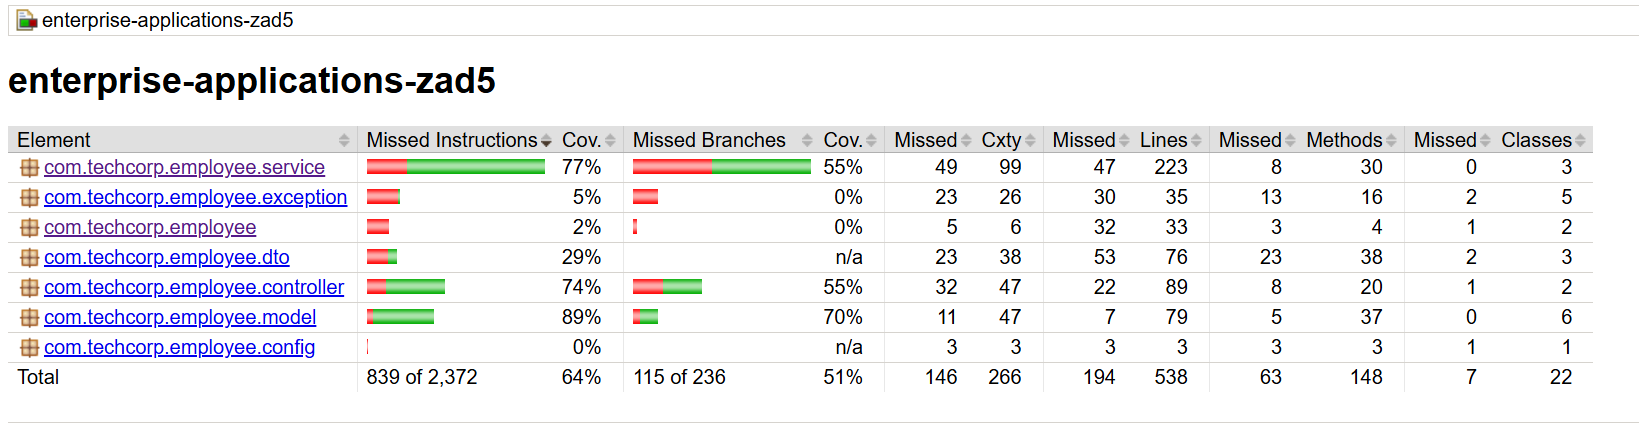
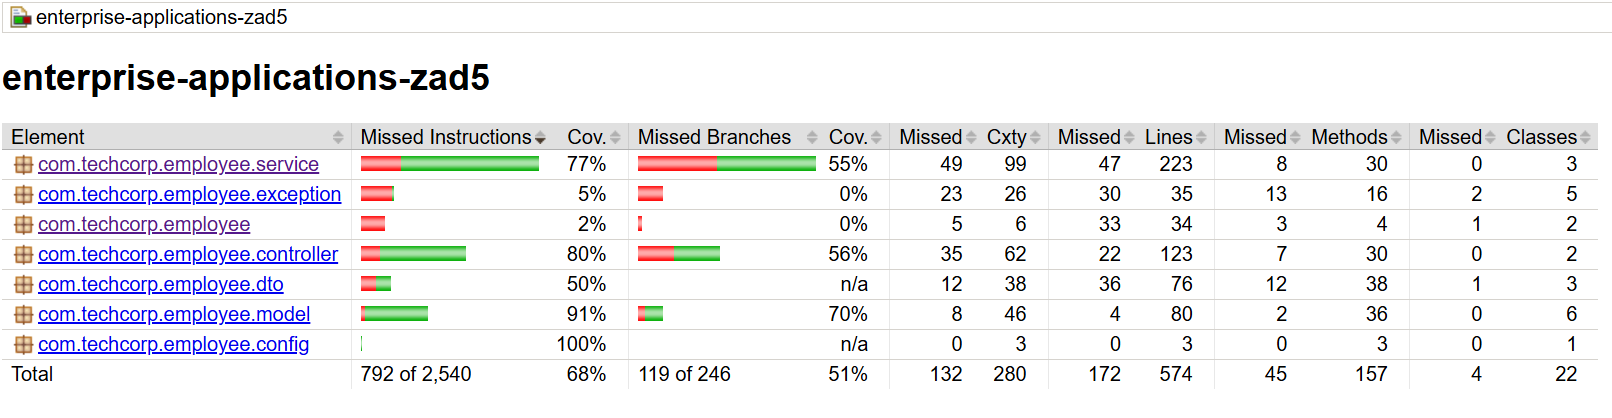
added statistics controller and tests, updated EmployeeControllerTests, added test app properties, updated readme and coverage report

diff --git a/zad-5/src/test/java/com/techcorp/employee/controller/StatisticsControllerTest.java b/zad-5/src/test/java/com/techcorp/employee/controller/StatisticsControllerTest.java
@@ -1,5 +1,100 @@
 package com.techcorp.employee.controller;
 
+import com.techcorp.employee.model.CompanyStatistics;
+import com.techcorp.employee.model.Employee;
+import com.techcorp.employee.model.EmploymentStatus;
+import com.techcorp.employee.model.Position;
+import com.techcorp.employee.service.EmployeeService;
+import org.junit.jupiter.api.Test;
+import org.springframework.beans.factory.annotation.Autowired;
+import org.springframework.boot.test.autoconfigure.web.servlet.WebMvcTest;
+import org.springframework.boot.test.mock.mockito.MockBean;
+import org.springframework.http.MediaType;
+import org.springframework.test.web.servlet.MockMvc;
+
+import java.util.List;
+import java.util.Map;
+
+import static org.mockito.Mockito.when;
+import static org.springframework.test.web.servlet.request.MockMvcRequestBuilders.get;
+import static org.springframework.test.web.servlet.result.MockMvcResultMatchers.jsonPath;
+import static org.springframework.test.web.servlet.result.MockMvcResultMatchers.status;
+
+@WebMvcTest(StatisticsController.class)
 public class StatisticsControllerTest {
-    
+
+    @Autowired
+    private MockMvc mvc;
+
+    @MockBean
+    // MockBean deprecated
+    // MockitoBean cannot be resolved to a type
+    // I AM KILLING MYSELF TONIGHT
+    private EmployeeService employeeService;
+
+    @Test
+    void averageSalary_noCompany() throws Exception {
+        Employee a = new Employee("A One", "a@x.com", "X", Position.PROGRAMISTA, 1000.0);
+        Employee b = new Employee("B Two", "b@x.com", "Y", Position.PROGRAMISTA, 3000.0);
+        when(employeeService.getAllEmployees()).thenReturn(List.of(a, b));
+
+        mvc.perform(get("/api/statistics/salary/average").accept(MediaType.APPLICATION_JSON))
+                .andExpect(status().isOk())
+                .andExpect(jsonPath("$.averageSalary").value(2000.0));
+    }
+
+    @Test
+    void averageSalary_byCompany() throws Exception {
+        Employee a = new Employee("A", "a@t.com", "TechCorp", Position.PROGRAMISTA, 8000.0);
+        Employee b = new Employee("B", "b@t.com", "OtherCo", Position.PROGRAMISTA, 4000.0);
+        when(employeeService.getAllEmployees()).thenReturn(List.of(a, b));
+
+        mvc.perform(get("/api/statistics/salary/average").param("company", "TechCorp").accept(MediaType.APPLICATION_JSON))
+                .andExpect(status().isOk())
+                .andExpect(jsonPath("$.averageSalary").value(8000.0));
+    }
+
+    @Test
+    void companyStatistics_found() throws Exception {
+        CompanyStatistics cs = new CompanyStatistics(2, 9000.0, "Top Person");
+        when(employeeService.getCompanyStatistics()).thenReturn(Map.of("TechCorp", cs));
+        Employee e1 = new Employee("Top Person", "top@t.com", "TechCorp", Position.PREZES, 12000.0);
+        Employee e2 = new Employee("Worker", "w@t.com", "TechCorp", Position.PROGRAMISTA, 6000.0);
+        when(employeeService.getAllEmployees()).thenReturn(List.of(e1, e2));
+
+        mvc.perform(get("/api/statistics/company/TechCorp").accept(MediaType.APPLICATION_JSON))
+                .andExpect(status().isOk())
+                .andExpect(jsonPath("$.companyName").value("TechCorp"))
+                .andExpect(jsonPath("$.employeeCount").value(2))
+                .andExpect(jsonPath("$.averageSalary").value(9000.0))
+                .andExpect(jsonPath("$.highestSalary").value(12000.0))
+                .andExpect(jsonPath("$.topEarnerName").value("Top Person"));
+    }
+
+    @Test
+    void positions_counts() throws Exception {
+        Employee a = new Employee("A", "a@x.com", "X", Position.PROGRAMISTA, 8000.0);
+        Employee b = new Employee("B", "b@x.com", "X", Position.PROGRAMISTA, 8000.0);
+        Employee c = new Employee("C", "c@x.com", "X", Position.MANAGER, 12000.0);
+        when(employeeService.getAllEmployees()).thenReturn(List.of(a, b, c));
+
+        mvc.perform(get("/api/statistics/positions").accept(MediaType.APPLICATION_JSON))
+                .andExpect(status().isOk())
+                .andExpect(jsonPath("$.PROGRAMISTA").value(2))
+                .andExpect(jsonPath("$.MANAGER").value(1));
+    }
+
+    @Test
+    void status_distribution() throws Exception {
+        when(employeeService.getStatusDistribution()).thenReturn(Map.of(
+                EmploymentStatus.ACTIVE, 5L,
+                EmploymentStatus.ON_LEAVE, 2L
+        ));
+
+        mvc.perform(get("/api/statistics/status").accept(MediaType.APPLICATION_JSON))
+                .andExpect(status().isOk())
+                .andExpect(jsonPath("$.ACTIVE").value(5))
+                .andExpect(jsonPath("$.ON_LEAVE").value(2));
+    }
 }
+

diff --git a/zad-5/src/main/java/com/techcorp/employee/controller/StatisticsController.java b/zad-5/src/main/java/com/techcorp/employee/controller/StatisticsController.java
@@ -1,5 +1,84 @@
 package com.techcorp.employee.controller;
 
+import com.techcorp.employee.dto.CompanyStatisticsDTO;
+import com.techcorp.employee.model.CompanyStatistics;
+import com.techcorp.employee.model.Employee;
+import com.techcorp.employee.service.EmployeeService;
+import org.springframework.http.ResponseEntity;
+import org.springframework.web.bind.annotation.GetMapping;
+import org.springframework.web.bind.annotation.PathVariable;
+import org.springframework.web.bind.annotation.RequestMapping;
+import org.springframework.web.bind.annotation.RequestParam;
+import org.springframework.web.bind.annotation.RestController;
+
+import java.util.Map;
+import java.util.stream.Collectors;
+
+@RestController
+@RequestMapping("/api/statistics")
 public class StatisticsController {
-    
+
+    private final EmployeeService employeeService;
+
+    public StatisticsController(EmployeeService employeeService) {
+        this.employeeService = employeeService;
+    }
+
+    @GetMapping("/salary/average")
+    public ResponseEntity<Map<String, Double>> averageSalary(@RequestParam(value = "company", required = false) String company) {
+        double avg;
+        if (company == null || company.isBlank()) {
+            avg = employeeService.getAllEmployees().stream().mapToDouble(Employee::getSalary).average().orElse(0.0);
+        } else {
+            String cmp = company.trim();
+            avg = employeeService.getAllEmployees().stream()
+                    .filter(e -> cmp.equals(e.getCompanyName()))
+                    .mapToDouble(Employee::getSalary)
+                    .average().orElse(0.0);
+        }
+        return ResponseEntity.ok(Map.of("averageSalary", avg));
+    }
+
+    @GetMapping("/company/{companyName}")
+    public ResponseEntity<CompanyStatisticsDTO> companyStatistics(@PathVariable("companyName") String companyName) {
+        if (companyName == null) return ResponseEntity.notFound().build();
+        String key = companyName.trim();
+
+        Map<String, CompanyStatistics> stats = employeeService.getCompanyStatistics();
+        CompanyStatistics cs = stats.get(key);
+        if (cs == null) {
+            return ResponseEntity.notFound().build();
+        }
+
+        // compute highest salary for the company by scanning employees
+        double highestSalary = employeeService.getAllEmployees().stream()
+                .filter(e -> key.equals(e.getCompanyName()))
+                .mapToDouble(Employee::getSalary)
+                .max().orElse(0.0);
+
+        CompanyStatisticsDTO dto = new CompanyStatisticsDTO();
+        dto.setCompanyName(key);
+        dto.setEmployeeCount(cs.getEmployeeCount());
+        dto.setAverageSalary(cs.getAverageSalary());
+        dto.setHighestSalary(highestSalary);
+        dto.setTopEarnerName(cs.getHighestPaidFullName());
+
+        return ResponseEntity.ok(dto);
+    }
+
+    @GetMapping("/positions")
+    public ResponseEntity<Map<String, Integer>> positions() {
+        Map<String, Integer> counts = employeeService.getAllEmployees().stream()
+                .filter(e -> e.getPosition() != null)
+                .collect(Collectors.groupingBy(e -> e.getPosition().name(), Collectors.collectingAndThen(Collectors.counting(), Long::intValue)));
+        return ResponseEntity.ok(counts);
+    }
+
+    @GetMapping("/status")
+    public ResponseEntity<Map<String, Integer>> statusDistribution() {
+        Map<String, Integer> map = employeeService.getStatusDistribution().entrySet().stream()
+                .collect(Collectors.toMap(e -> e.getKey().name(), e -> e.getValue().intValue()));
+        return ResponseEntity.ok(map);
+    }
 }
+

diff --git a/zad-5/src/test/java/com/techcorp/employee/controller/EmployeeControllerTest.java b/zad-5/src/test/java/com/techcorp/employee/controller/EmployeeControllerTest.java
@@ -6,7 +6,6 @@ import org.springframework.beans.factory.annotation.Autowired;
 import org.springframework.boot.test.autoconfigure.web.servlet.WebMvcTest;
 import org.springframework.context.annotation.Import;
 import org.springframework.http.MediaType;
-import org.springframework.test.context.bean.override.mockito.MockitoBean;
 import org.springframework.test.web.servlet.MockMvc;
 
 import com.techcorp.employee.config.AppConfig;
@@ -16,6 +15,7 @@ import com.techcorp.employee.model.Position;
 import com.techcorp.employee.service.EmployeeService;
 
 import org.springframework.boot.test.context.TestConfiguration;
+import org.springframework.boot.test.mock.mockito.MockBean;
 
 import java.util.List;
 import java.util.Optional;
@@ -35,7 +35,7 @@ class EmployeeControllerTest {
     @Autowired
     private MockMvc mockMvc;
 
-    @MockitoBean
+    @MockBean
     private EmployeeService employeeService;
 
     private Employee sampleEmployee() {

diff --git a/zad-5/README.md b/zad-5/README.md
@@ -2,13 +2,19 @@
 
 ## Run main application:
 ```java
-mvn -f pom.xml clean compile exec:java
+mvn -DskipTests=true spring-boot:run
 ```
 
-## Run Spring Boot application:
+## Enable bootstrap:
 ```java
-mvn -f pom.xml spring-boot:run
+mvn -DskipTests=true -Dapp.bootstrap.enabled=true spring-boot:run
 ```
+
+## Disable bootstrap:
+```java
+mvn -DskipTests=true -Dapp.bootstrap.enabled=false spring-boot:run
+```
+
 
 ## Run Unit tests:
 ```java
@@ -20,93 +26,6 @@ mvn -f pom.xml test
 mvn verify
 ```
 
-## TO RUN THE APPLICATION:
-```java
-mvn clean compile exec:java
-```
-> shows CSV import, salary consistency check, company statistics: employee count, avgSalary, highest paid employee
-
-### expected output:
-```java
-=== CSV Import ===
-ImportSummary{importedCount=6, errors=[Line 5: invalid position 'INVALID_POSITION', Line 6: invalid salary '-5000.0', Line 7: invalid salary 'abc']}
-
-=== Fetch from API ===
-Imported from API: 10
-
-=== Salary consistency check ===
-Canna Nowak | canna.nowak@example.com | DataSoft | PREZES | 23000.00
-Ubogi Kamiński | ubogi.kaminski@example.com | TechCorp | PROGRAMISTA | 2000.00
-
-=== Company statistics ===
-Johns Group -> CompanyStatistics{employeeCount=1, averageSalary=8000.00, highestPaid='Kurtis Weissnat'}
-Yost and Sons -> CompanyStatistics{employeeCount=1, averageSalary=8000.00, highestPaid='Glenna Reichert'}
-TechCorp -> CompanyStatistics{employeeCount=3, averageSalary=10333.33, highestPaid='Wojtek Kamiński'}
-Hoeger LLC -> CompanyStatistics{employeeCount=1, averageSalary=8000.00, highestPaid='Clementina DuBuque'}
-Keebler LLC -> CompanyStatistics{employeeCount=1, averageSalary=8000.00, highestPaid='Chelsey Dietrich'}
-DataSoft -> CompanyStatistics{employeeCount=3, averageSalary=16666.67, highestPaid='Canna Nowak'}
-Romaguera-Crona -> CompanyStatistics{employeeCount=1, averageSalary=8000.00, highestPaid='Leanne Graham'}
-Abernathy Group -> CompanyStatistics{employeeCount=1, averageSalary=8000.00, highestPaid='Nicholas Runolfsdottir V'}
-Robel-Corkery -> CompanyStatistics{employeeCount=1, averageSalary=8000.00, highestPaid='Patricia Lebsack'}
-Deckow-Crist -> CompanyStatistics{employeeCount=1, averageSalary=8000.00, highestPaid='Ervin Howell'}
-Romaguera-Jacobson -> CompanyStatistics{employeeCount=1, averageSalary=8000.00, highestPaid='Clementine Bauch'}
-Considine-Lockman -> CompanyStatistics{employeeCount=1, averageSalary=8000.00, highestPaid='Mrs. Dennis Schulist'}
-------------------------------------------------------------------------
-BUILD SUCCESS
-------------------------------------------------------------------------
-```
-
-
-## RUN TESTS ONLY:
-```java
-mvn test
-```
-> runs additional tests skipped in main
-
-### expected output:
-```java
--------------------------------------------------------
-  T E S T S
--------------------------------------------------------
-Running model.ImportSummaryTest
-Tests run: 1, Failures: 0, Errors: 0, Skipped: 0, Time elapsed: 0.039 s -- in model.ImportSummaryTest
-Running model.EmployeeTest
-Tests run: 3, Failures: 0, Errors: 0, Skipped: 0, Time elapsed: 0.018 s -- in model.EmployeeTest
-Running model.PositionTest
-Tests run: 2, Failures: 0, Errors: 0, Skipped: 0, Time elapsed: 0.003 s -- in model.PositionTest
-Running model.CompanyTest
-Tests run: 4, Failures: 0, Errors: 0, Skipped: 0, Time elapsed: 0.014 s -- in model.CompanyTest
-Running service.ImportServiceTest
-Tests run: 4, Failures: 0, Errors: 0, Skipped: 0, Time elapsed: 0.039 s -- in service.ImportServiceTest
-Running service.ApiServiceTest
-Tests run: 1, Failures: 0, Errors: 0, Skipped: 0, Time elapsed: 0.248 s -- in service.ApiServiceTest
-Running service.ApiServiceHttpTest
-Tests run: 10, Failures: 0, Errors: 0, Skipped: 0, Time elapsed: 0.248 s -- in service.ApiServiceHttpTest
-Running service.EmployeeServiceTest
-Tests run: 5, Failures: 0, Errors: 0, Skipped: 0, Time elapsed: 0.011 s -- in service.EmployeeServiceTest
-
-Results:
-
-Tests run: 30, Failures: 0, Errors: 0, Skipped: 0
-
-------------------------------------------------------------------------
-BUILD SUCCESS
-------------------------------------------------------------------------
-```
-
-## RUN TESTS AND GENERATE COVERAGE REPORT:
-```java
-mvn verify
-```
-> runs all tests and generates coverage report in target/site/jacoco/index.html
-
-### expected output:
-
+## Code Coverage Report
 image: ![coverage report showing 84% coverage](markdown/coverage-report.png)
-
-## RUN FULL BUILD CYCLE WITH VERIFICATION:
-```java
-mvn clean verify
-```
-> cleans the target directory and runs all tests with verification
 
